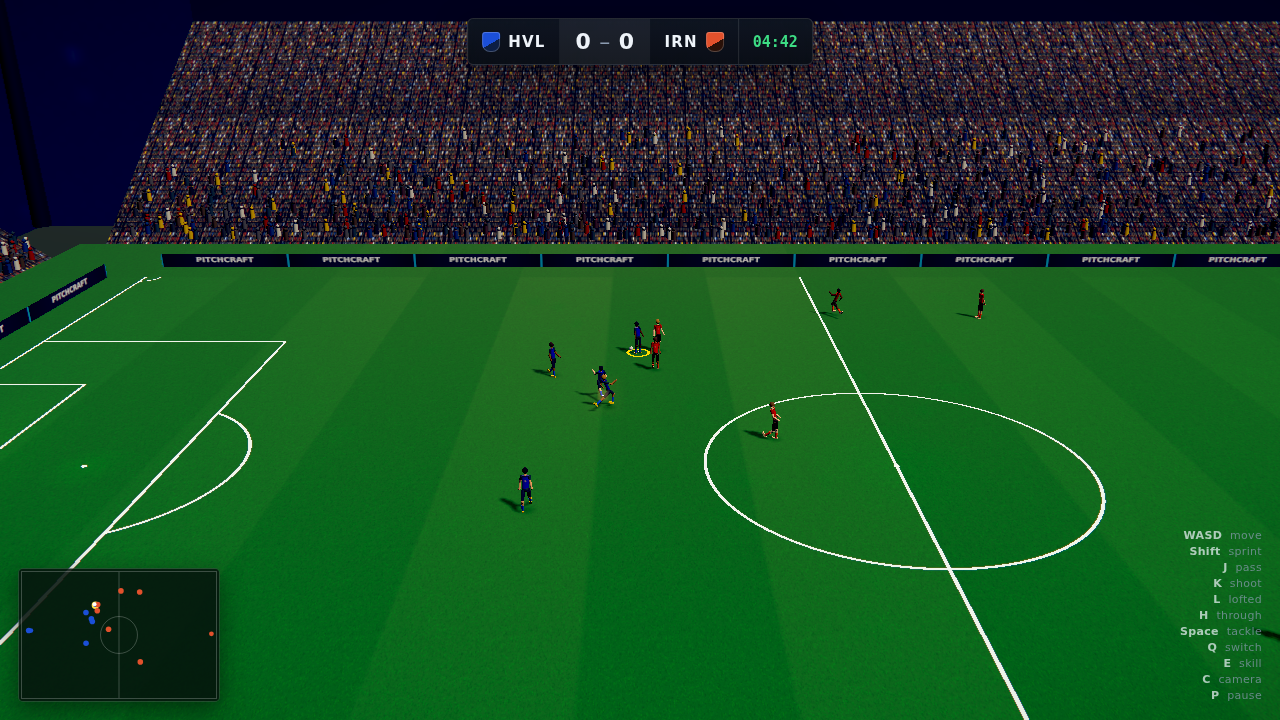
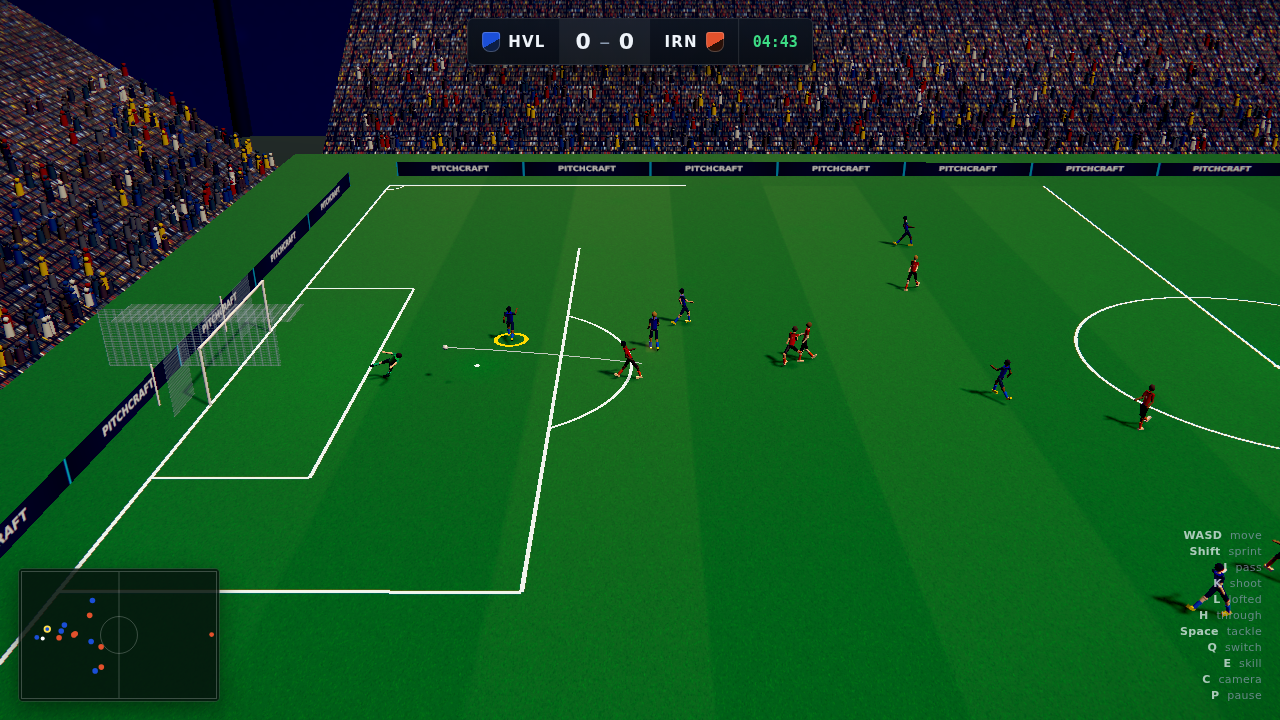
Keep celebrating players inside the stadium, shadows on at every tier
stepGoal() steps players directly rather than through world.step(), so it
skipped the world constraints entirely. A celebrating scorer runs in a
straight line for three and a half seconds: the audit found players 11m
beyond the goal line, inside the stand. 57 out-of-world anomalies over 12
matches, now zero.

Shadows were disabled at the `low` quality tier, which is what phones fall
back to. With the ambient fill cut back, a shadowless render looks worse
than the old over-lit one rather than cheaper - there is nothing left
explaining where the light comes from. Shadows now run at every tier, with
the saving taken in map resolution (1024 / 1024 / 2048) and filter cost
(Basic vs PCFSoft) instead.

Claude-Session: https://claude.ai/code/session_01CvMpfbpEzH1vDSDx4mhqsG

diff --git a/pitchcraft/src/render/scene.js b/pitchcraft/src/render/scene.js
@@ -32,8 +32,13 @@ export class GameScene {
     this.renderer.outputColorSpace = THREE.SRGBColorSpace;
     this.renderer.toneMapping = THREE.ACESFilmicToneMapping;
     this.renderer.toneMappingExposure = 1.06;
-    this.renderer.shadowMap.enabled = quality !== 'low';
-    this.renderer.shadowMap.type = THREE.PCFSoftShadowMap;
+    // Shadows stay on at every tier. They are the single largest contributor to
+    // the scene reading as lit rather than flat, and with the ambient fill cut
+    // back there is nothing else explaining where the light comes from — a
+    // shadowless `low` looks worse than the old over-lit build, not cheaper.
+    // The saving is taken in map resolution and filter cost instead.
+    this.renderer.shadowMap.enabled = true;
+    this.renderer.shadowMap.type = quality === 'low' ? THREE.BasicShadowMap : THREE.PCFSoftShadowMap;
 
     this.scene = new THREE.Scene();
     this.skyTexture = makeSkyTexture();
@@ -109,8 +114,14 @@ export class GameScene {
 
     const key = new THREE.DirectionalLight(0xfff2dc, 3.1);
     key.position.set(38, 62, 30);
-    key.castShadow = this.quality !== 'low';
-    key.shadow.mapSize.set(GRAPHICS.shadowMapSize, GRAPHICS.shadowMapSize);
+    key.castShadow = true;
+    const shadowRes =
+      this.quality === 'low'
+        ? 1024
+        : this.quality === 'medium'
+          ? GRAPHICS.shadowMapSize / 2
+          : GRAPHICS.shadowMapSize;
+    key.shadow.mapSize.set(shadowRes, shadowRes);
     key.shadow.camera.near = 20;
     key.shadow.camera.far = 190;
     const span = Math.max(PITCH.length, PITCH.width) * 0.62;

diff --git a/pitchcraft/src/match/match.js b/pitchcraft/src/match/match.js
@@ -346,6 +346,11 @@ export class Match {
     // Celebration: players keep moving but the ball is dead.
     this.world.ball.frozen = true;
     for (const p of this.world.players) p.step(dt);
+    // Stepping players outside `world.step` skips its constraints, and a
+    // celebrating scorer runs in a straight line for three and a half seconds:
+    // the audit caught players 11m beyond the goal line, inside the stand.
+    this.world.resolvePlayerSeparation();
+    this.world.constrainPlayers();
     if (this.phaseTime >= MATCH.celebrationTime) {
       for (const p of this.world.players) {
         if (p.state === PlayerState.CELEBRATE) p.setState(PlayerState.IDLE);
